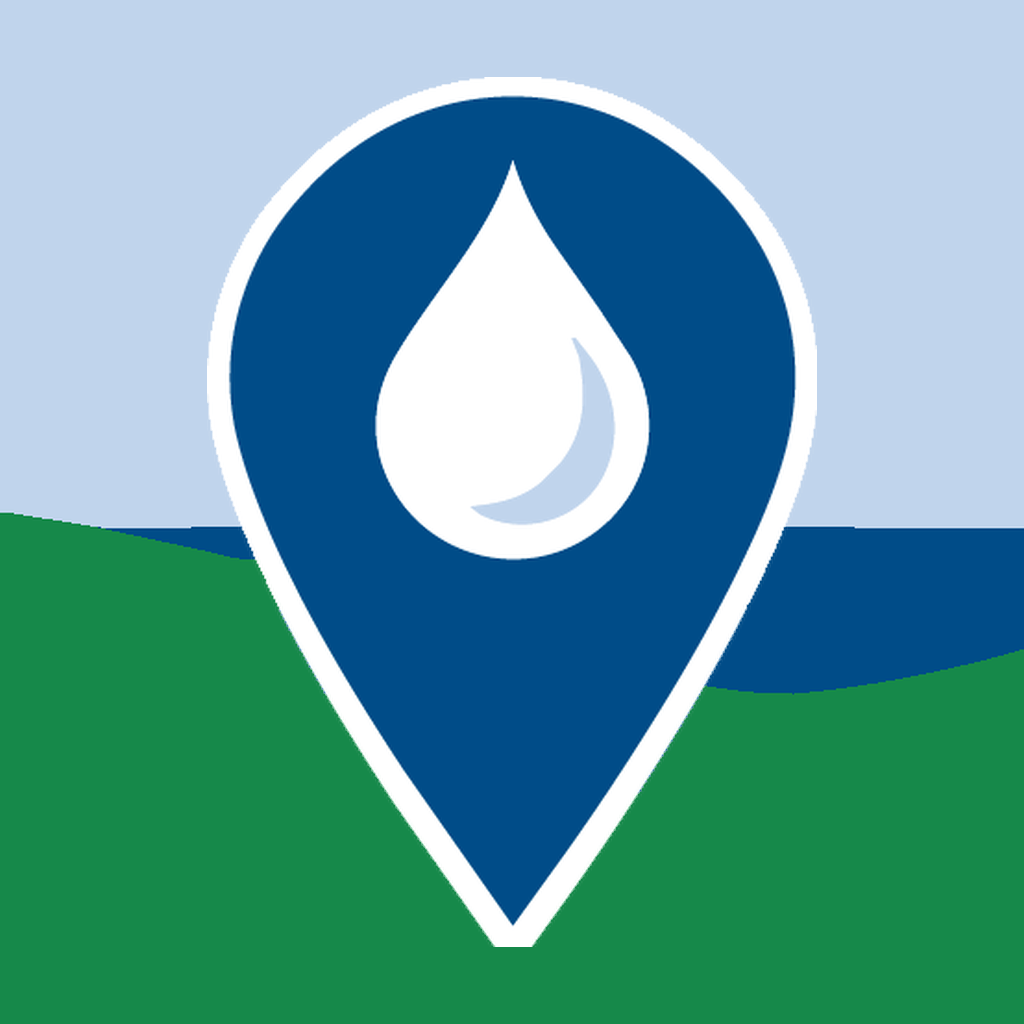
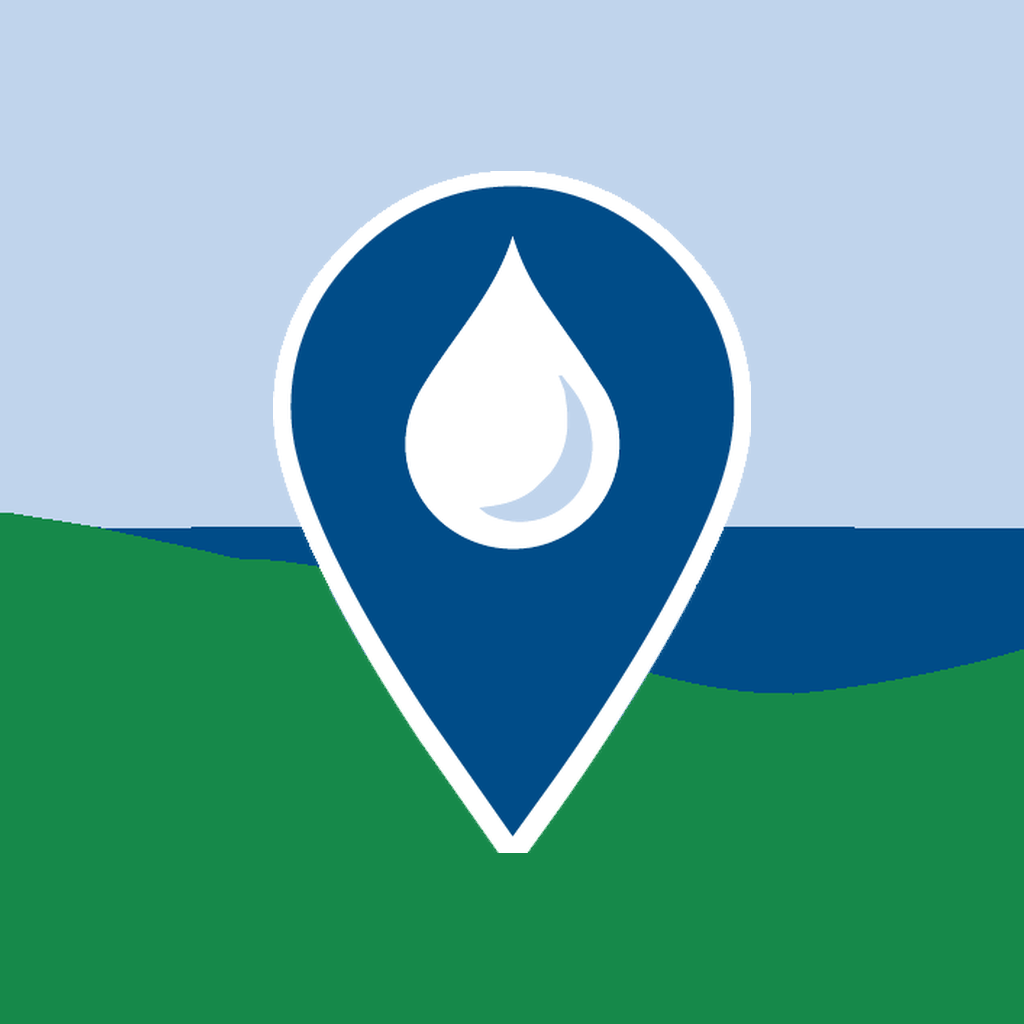
done

Changed region(s): [[0.1875, 0.0625, 0.8125, 0.9375]]

diff --git a/tools/make_assets.py b/tools/make_assets.py
@@ -1,4 +1,7 @@
 from pathlib import Path
+import subprocess
+import sys
+
 import numpy as np
 from PIL import Image, ImageDraw, ImageFont
 from scipy import ndimage
@@ -12,7 +15,11 @@ ICON_LARGE_SIZE = 1024
 ICON_PLAY_STORE_SIZE = 512
 
 FOREGROUND_CANVAS = 1024
-PIN_INNER_FRACTION = 0.85
+# Adaptive icon layer is 108×108 dp; critical content must fit 72×72 dp (18 dp inset).
+# Scale pin to max dimension = 72/108 of canvas so it stays inside the safe zone.
+PIN_SAFE_BOX_PX = int(FOREGROUND_CANVAS * 72 // 108)
+# Must match pubspec flutter_launcher_icons adaptive_icon_background and colors.xml.
+LAUNCHER_BACKGROUND_SKY = np.array([192, 212, 236], dtype=np.uint8)  # #C0D4EC
 MONOCHROME_INNER_FRACTION = 0.55
 
 SPLASH_CANVAS = 1152
@@ -46,6 +53,14 @@ def main():
     splash = build_splash_text()
     splash.save(ASSETS_DIR / 'splash_text.png')
     print('done')
+    _strip_adaptive_foreground_inset_xml()
+
+
+def _strip_adaptive_foreground_inset_xml():
+    """Keep mipmap-anydpi-v26/ic_launcher.xml free of flutter_launcher_icons' foreground inset."""
+    root = Path(__file__).resolve().parent.parent
+    script = Path(__file__).resolve().parent / 'ic_launcher_xml_fix.py'
+    subprocess.check_call([sys.executable, str(script), '--fix-only'], cwd=root)
 
 
 def save_landscape_icons(source):
@@ -56,7 +71,7 @@ def save_landscape_icons(source):
 def build_foreground(source):
     landscape = build_landscape_without_pin(source).convert('RGBA')
     pin = extract_pin_with_alpha(source)
-    pin_scaled = scale_to_fit(pin, int(FOREGROUND_CANVAS * PIN_INNER_FRACTION))
+    pin_scaled = scale_to_fit(pin, PIN_SAFE_BOX_PX)
     offset_x = (FOREGROUND_CANVAS - pin_scaled.width) // 2
     offset_y = (FOREGROUND_CANVAS - pin_scaled.height) // 2
     landscape.paste(pin_scaled, (offset_x, offset_y), pin_scaled)
@@ -70,13 +85,18 @@ def build_landscape_without_pin(source):
     pin_columns = pin_alpha_mask.any(axis=0)
     pin_columns_padded = pad_columns(pin_columns, padding=12)
     sky_color, water_color, hill_color = sample_landscape_palette(rgb, pin_columns_padded)
-    print(f'colors  sky={sky_color.tolist()}  water={water_color.tolist()}  hill={hill_color.tolist()}')
+    print(
+        f'colors  sky(sample)={sky_color.tolist()}  sky(painted)={LAUNCHER_BACKGROUND_SKY.tolist()}  '
+        f'water={water_color.tolist()}  hill={hill_color.tolist()}'
+    )
     classification = classify_landscape_pixels(rgb, sky_color, water_color, hill_color)
     ground_top = topmost_row_per_column(classification != CLASS_SKY, pin_columns_padded, default=height)
     hill_top = topmost_row_per_column(classification == CLASS_HILL, pin_columns_padded, default=height)
     ground_top = smooth_interpolate_curve(ground_top)
     hill_top = smooth_interpolate_curve(hill_top)
-    out = paint_landscape(height, width, ground_top, hill_top, sky_color, water_color, hill_color)
+    out = paint_landscape(
+        height, width, ground_top, hill_top, LAUNCHER_BACKGROUND_SKY, water_color, hill_color
+    )
     return Image.fromarray(out, 'RGB').resize((FOREGROUND_CANVAS, FOREGROUND_CANVAS), Image.LANCZOS)
 
 

diff --git a/tools/ic_launcher_xml_fix.py b/tools/ic_launcher_xml_fix.py
@@ -1,0 +1,87 @@
+"""Remove flutter_launcher_icons' 16% foreground <inset> from adaptive ic_launcher.xml.
+
+The package always wraps the foreground in an inset, which exposes the background as a
+visible ring on circular masks. Foreground must reference the drawable directly.
+Monochrome inset is left unchanged.
+"""
+from __future__ import annotations
+
+import subprocess
+import sys
+import xml.etree.ElementTree as ET
+from pathlib import Path
+
+ANDROID_URI = 'http://schemas.android.com/apk/res/android'
+A_DRAWABLE = f'{{{ANDROID_URI}}}drawable'
+
+
+def ic_launcher_xml_path(project_root: Path | None = None) -> Path:
+    root = project_root or Path(__file__).resolve().parent.parent
+    return (
+        root
+        / 'android'
+        / 'app'
+        / 'src'
+        / 'main'
+        / 'res'
+        / 'mipmap-anydpi-v26'
+        / 'ic_launcher.xml'
+    )
+
+
+def strip_foreground_inset(path: Path | None = None) -> bool:
+    """Flatten <foreground><inset .../></foreground> to <foreground android:drawable=.../>.
+
+    Returns True if the file was modified.
+    """
+    path = path or ic_launcher_xml_path()
+    if not path.is_file():
+        return False
+    tree = ET.parse(path)
+    root = tree.getroot()
+    changed = False
+    for fg in root.findall('foreground'):
+        inset = fg.find('inset')
+        if inset is None:
+            continue
+        drawable = inset.get(A_DRAWABLE)
+        if not drawable:
+            continue
+        for child in list(fg):
+            fg.remove(child)
+        fg.text = None
+        fg.set(A_DRAWABLE, drawable)
+        changed = True
+    if changed:
+        ET.register_namespace('android', ANDROID_URI)
+        tree.write(
+            path,
+            encoding='utf-8',
+            xml_declaration=True,
+            short_empty_elements=True,
+        )
+    return changed
+
+
+def run_refresh_launcher_icons(project_root: Path | None = None) -> None:
+    root = project_root or Path(__file__).resolve().parent.parent
+    subprocess.check_call(['dart', 'run', 'flutter_launcher_icons'], cwd=root)
+    strip_foreground_inset(ic_launcher_xml_path(root))
+
+
+def main() -> None:
+    argv = sys.argv[1:]
+    root = Path(__file__).resolve().parent.parent
+    if argv == ['--fix-only']:
+        if strip_foreground_inset(ic_launcher_xml_path(root)):
+            print('ic_launcher.xml: removed foreground <inset> (flutter_launcher_icons default).')
+        return
+    if argv:
+        print('Usage: python tools/ic_launcher_xml_fix.py           # dart run flutter_launcher_icons + fix')
+        print('       python tools/ic_launcher_xml_fix.py --fix-only # fix XML only')
+        sys.exit(2)
+    run_refresh_launcher_icons(root)
+
+
+if __name__ == '__main__':
+    main()
